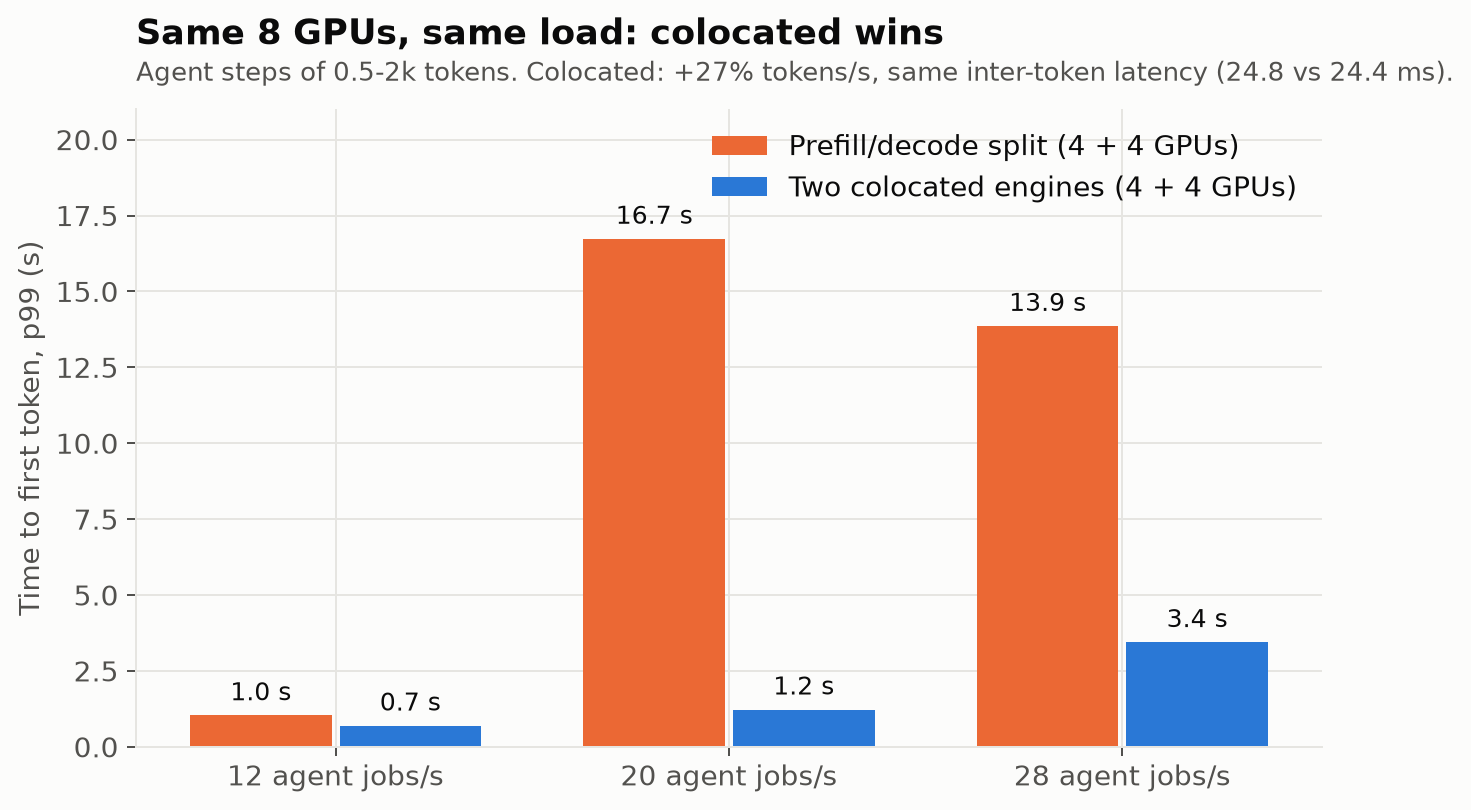
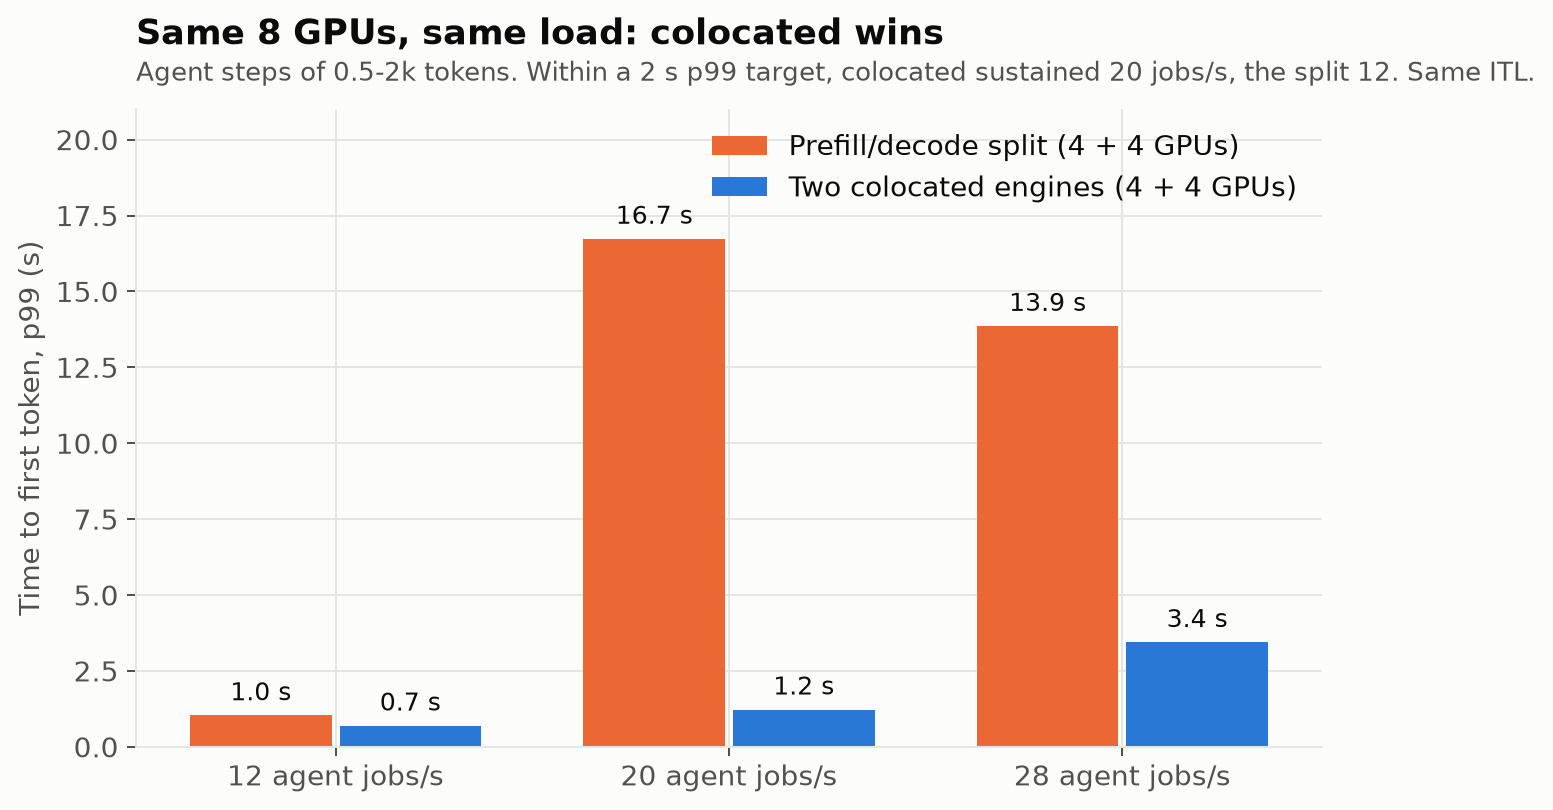
Article: cost control loop, closing paragraph, capacity-at-SLO claims
Replace the run-average tokens/s comparison (load-generator lag, different
windows) with capacity at the 2 s p99 SLO and cost per 1,000 jobs. Use real
load-step boundaries for the TTFT breakdown, add a Cost row to the
control-loops diagram, and regenerate figures.

diff --git a/cluster/article_figures.py b/cluster/article_figures.py
@@ -120,7 +120,7 @@ def split_vs_colocated() -> None:
     title(
         ax,
         "Same 8 GPUs, same load: colocated wins",
-        "Agent steps of 0.5-2k tokens. Colocated: +27% tokens/s, same inter-token latency (24.8 vs 24.4 ms).",
+        "Agent steps of 0.5-2k tokens. Within a 2 s p99 target, colocated sustained 20 jobs/s, the split 12. Same ITL.",
     )
     save(fig, "2-split-vs-colocated")
 
@@ -210,18 +210,20 @@ def scale_out_timeline() -> None:
 
 
 def _trace_by_step(run: str):
-    """Served requests from the gateway trace, tagged with the load step they arrived in."""
+    """Served requests from the gateway trace, tagged with the load step they arrived in.
+
+    Step boundaries come from the load file (each job records its step), not from the planned
+    durations: under overload the load generator itself fell behind, so real steps ran long."""
     import pandas as pd
 
-    meta = json.loads((M / f"a100-{run}-meta.json").read_text())
-    phases = [tuple(map(float, p.split(":"))) for p in meta["phases"].split(",")]
+    jobs = pd.read_json(M / "load" / f"a100-{run}.jsonl", lines=True)
+    bounds = jobs.groupby("phase").agg(rate=("rate", "first"), first=("start", "min")).sort_index()
+    end = float((jobs.start + jobs.duration_s).max())
+    edges = list(bounds["first"]) + [end]
     t = pd.read_json(M / "traces" / "cluster.jsonl", lines=True)
     t["arrival"] = t.ts - t.e2e_s.fillna(0)
-    w = t[(t.arrival >= meta["start"]) & (t.arrival <= meta["end"]) & (t.status == 200)].copy()
-    edges = [meta["start"]]
-    for duration, _ in phases:
-        edges.append(edges[-1] + duration)
-    w["load_step"] = pd.cut(w.arrival, edges, labels=[r for _, r in phases])
+    w = t[(t.arrival >= edges[0]) & (t.arrival <= end) & (t.status == 200)].copy()
+    w["load_step"] = pd.cut(w.arrival, edges, labels=list(bounds["rate"]), include_lowest=True)
     return w
 
 

diff --git a/article/understanding-inference-bottlenecks-part-1.md b/article/understanding-inference-bottlenecks-part-1.md
@@ -130,24 +130,25 @@ prefill/decode split (four GPUs each), and two ordinary engines that each do bot
 ![Same 8 GPUs, same load: colocated wins](../plots/article-2-split-vs-colocated.png)
 
 At 20 agent jobs per second, p99 time to first token was **16.7 s split and 1.2 s colocated**.
-Colocated also produced 27 % more tokens per second. And the one thing the split should have
-improved, inter-token latency, was the same in both: 24.4 ms against 24.8 ms.
+With a target of 2 seconds for p99 time to first token, the split sustained 12 agent jobs per
+second and the colocated engines at least 20, on the same hardware. And the one thing the split
+should have improved, inter-token latency, was the same in both: 24.4 ms against 24.8 ms.
 
 The reasons are specific to this workload. Agent prompts here are 500 to 2,000 tokens, so
 prefill is quick and rarely stalls decoding. Under the split, the prefill GPUs sat at about 63 %
 busy while the decode GPUs saturated. With two colocated engines, all eight GPUs did useful work.
 
 Breaking time to first token into its parts shows where the split loses. At light load the
-difference is the prefill round trip and the transfer. At 28 jobs per second, most of the split's
-3.4 seconds is spent waiting in the gateway's own queue, while the colocated engines barely
-queue at all:
+difference is the prefill round trip and the transfer. As load rises, the split's time in the
+gateway's own queue grows: at 28 jobs per second it is about half of a 2.4-second average, while
+the colocated engines average 0.9 seconds and barely queue at all:
 
 ![Where time to first token goes as load rises](../plots/article-5-ttft-breakdown.png)
 
 This is not a verdict against disaggregation in general. With prompts of 16,000 to 32,000 tokens
 mixed into the traffic, a long prefill would stall every sequence decoding beside it, and the
 split's isolation would start to matter. I did not run that case. For short-prompt agent
-workloads on a 50 Gb NIC, though, the split cost throughput and tail latency and bought nothing.
+workloads on a 50 Gb NIC, though, the split cost capacity and tail latency and bought nothing.
 
 ---
 
@@ -264,6 +265,24 @@ your tools.
 
 ---
 
+## The loop I did not have: cost
+
+None of the control loops above looked at cost, and every finding has a price. The signal a
+cost loop should use is GPU-hours per completed request at the latency target, which is
+capacity at the SLO, not raw tokens per second.
+
+| | Prefill/decode split | Two colocated engines |
+| --- | --- | --- |
+| Jobs per second within a 2 s p99 TTFT | 12 | at least 20 |
+| Cost per 1,000 agent jobs at that rate ($15.92/h host) | $0.37 | $0.22 or less |
+
+So on this workload the split cost about 1.7× as much per job. The other waste was idle capacity:
+the late replica held four A100s for six minutes and served nothing, about 0.4 GPU-hours. A
+cost loop would read cost per job at the SLO and idle GPU time, and its knobs are the slow,
+expensive ones: topology, replica count, warm standby and the scale-in cooldown. It reacts in
+minutes to hours, so it has to sit above the faster loops and set their limits rather than
+compete with them.
+
 ## Rules of thumb I am taking away
 
 1. **Size on paper first.** The arithmetic predicted KV capacity within 2 %. It is cheaper than a
@@ -271,7 +290,7 @@ your tools.
 2. **Compute KV production rate ÷ link bandwidth before disaggregating.** At 44 %, moving KV
    cannot beat recomputing it.
 3. **Match the architecture to the prompt length.** For short-prompt agent traffic, colocated
-   engines beat a prefill/decode split on throughput and tail latency.
+   engines beat a prefill/decode split on capacity and tail latency.
 4. **Treat the control plane as a component that can be the bottleneck.** Alert when gateway
    queues grow while GPUs are under-used.
 5. **Judge engine health on engine latency**, not on latency that includes your own queue.
@@ -290,11 +309,21 @@ should be read as one careful case study, not a benchmark.
 
 ![The control plane is a set of feedback loops](../plots/article-d4-control-loops.png)
 
-Almost every improvement above came from a person noticing a symptom and turning a knob: a
-dispatch cap, a ramp signal, a token budget, a hop threshold, a scaling trigger. Each of those is a
-control loop that could be closed automatically, using signals the system already exports. Part 2
-will look at what it takes to tune an inference cluster's control plane automatically, starting
-with the knobs and measurements from this one.
+I made most of these changes by hand, based on what I saw in the measurements. Some were
+parameter changes, like raising the gateway's limit on concurrent prefill calls (its prefill
+dispatch cap). I also changed the signal driving the warm-up ramp and added a control loop to
+manage the KV token budget. For KV movement, the measurements showed it wasn't worth doing on this
+hardware.
+
+An automatic tuner could have helped with the dispatch cap. Parameter tuning alone wouldn't have
+corrected the signal the warm-up loop was using. No tuning of the scaling trigger could have
+shortened the three and a half minutes it took a new replica to become ready. Prefill and decode
+were coupled: requests waiting for prefill held decode slots, so a tuner watching either pool alone
+could misidentify the bottleneck.
+
+In Part 2, I'll use these measurements to work through which tuning decisions we can automate.
+I'll look at what each loop needs to measure, which knobs it can safely adjust, and how to
+coordinate those adjustments when loops share capacity.
 
 *Code, data and dashboards:* [github.com/sachscode/api-steward](https://github.com/sachscode/api-steward).
 *Built as the final project for AI Inference Engineering & Systems Design.*

diff --git a/DESIGN.md b/DESIGN.md
@@ -195,7 +195,7 @@ Experiments run with `cluster/experiment.sh`, summarised by `cluster/analyze_run
 | --- | --- | --- |
 | E5a | Hop vs local recompute, 0.5k-25k tokens (`a100-hop-probe.json`) | Local wins at every size (1.5-2.3×). NIXL ~4.5 GB/s; the transfer adds ~44 % to prefill time because prefill makes KV at ~2 GB/s (20k tokens/s × 96 KiB). |
 | E3 | Load sweep, P/D split (`sweep2`, `sweep3`) | At 20 jobs/s, prefill cap 8: TTFT p50 2.0 s, p99 27 s, prefill queue 65, decode queue 277, 120 sequences in vLLM. Cap 32 at the same rate: p50 1.1 s, p99 17 s, prefill queue 12, 172 sequences; the limit moves to decode slots/GPU. (Run-average GPU figures mix different load steps; compare the 20 jobs/s step.) Knee ≈ 12 jobs/s (TTFT p99 1.0 s). |
-| E4 | P/D vs colocated, same 8 GPUs (`sweep3` vs `colo`) | Colocated: +27 % tokens/s; TTFT p99 at 20 jobs/s **1.23 s vs 16.7 s**; same ITL (24.8 vs 24.4 ms). |
+| E4 | P/D vs colocated, same 8 GPUs (`sweep3` vs `colo`) | Within a 2 s p99 TTFT target: split 12 jobs/s, colocated ≥ 20 (**$0.37 vs ≤ $0.22 per 1,000 jobs** at $15.92/h). TTFT p99 at 20 jobs/s **1.23 s vs 16.7 s**; same ITL (24.8 vs 24.4 ms). Run-average tokens/s is not comparable: under overload the load generator itself fell behind in the split run. |
 | E8 | KEDA scale-out (`autoscale`) | Scaled 21 s into the burst; replica ready at +239 s; burst ended at +156 s; 0 requests served; scaled down at +381 s. |
 | E7 | Noisy tenant (`noisy`) | 541 of the flooder's requests refused at admission; other tenants TTFT p99 **0.38 s**. |
 

diff --git a/README.md b/README.md
@@ -23,8 +23,9 @@ evidence behind each claim.
 
 * Paper sizing predicted vLLM's KV capacity within 2 % (865k vs 878,464 tokens).
 * Moving KV over NIXL (~4.5 GB/s via the RoCE NIC) never beat recomputing the prompt locally.
-* Colocated engines beat the prefill/decode split on the same 8 GPUs: +27 % tokens/s and
-  13× lower TTFT p99 at 20 jobs/s, with the same inter-token latency.
+* Colocated engines beat the prefill/decode split on the same 8 GPUs: 20 vs 12 jobs/s within a
+  2 s p99 TTFT (about 1.7× cheaper per job) and 13× lower TTFT p99 at 20 jobs/s, with the same
+  inter-token latency.
 * The first bottleneck was the gateway's own settings, not the GPUs or KV (KV never above 15 %).
 * KEDA scaled within 21 s, but a 30B replica took ~3.6 min to become ready.
 
